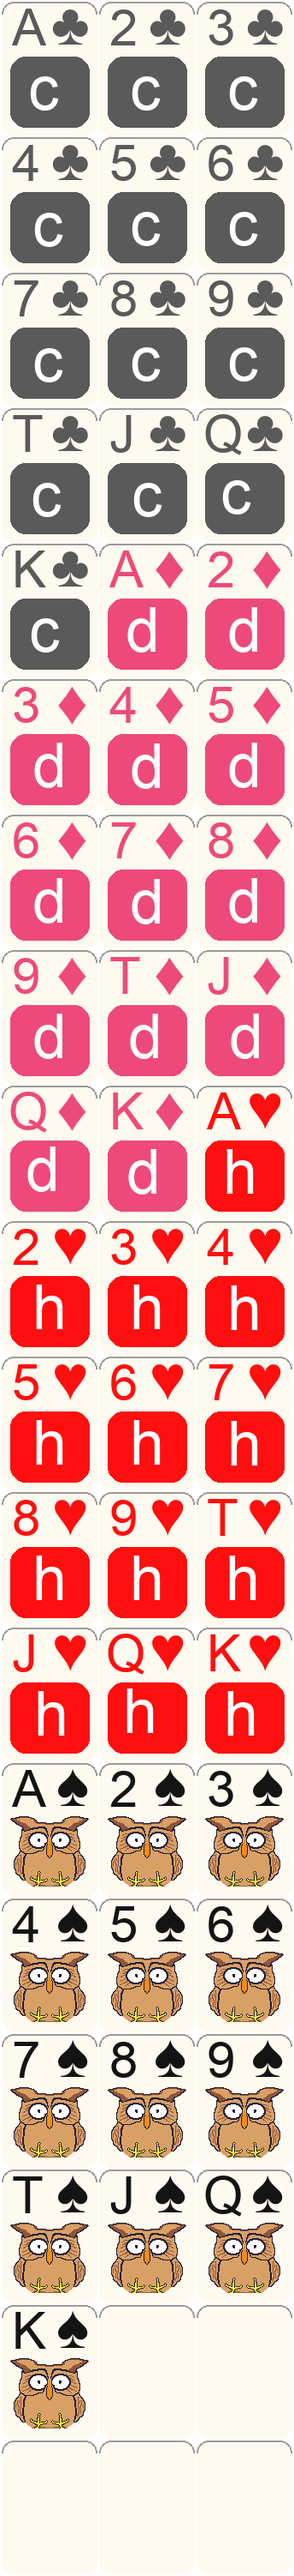
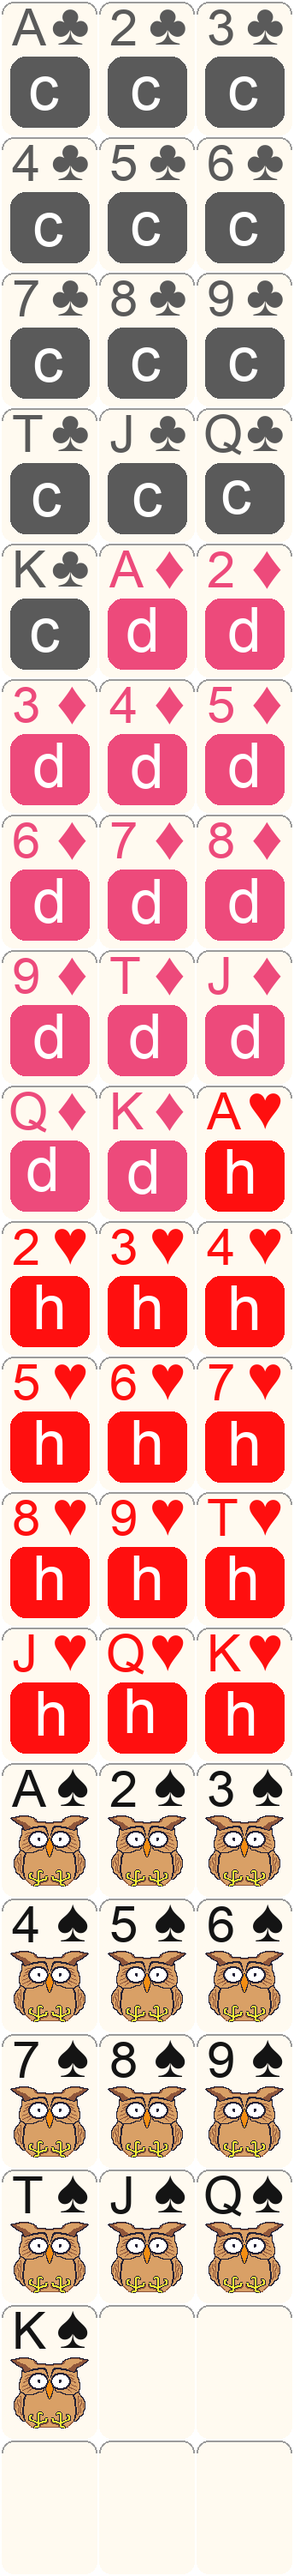
eagle graphic now on some cards in deck

diff --git a/src/scenes/preload-scene.ts b/src/scenes/preload-scene.ts
@@ -13,7 +13,7 @@ export class PreloadScene extends Phaser.Scene {
     this.load.image(ASSET_KEYS.TITLE, 'assets/images/title.png');
     this.load.image(ASSET_KEYS.CLICK_TO_START, 'assets/images/clickToStart.png');
 
-    this.load.spritesheet(ASSET_KEYS.CARDS, 'assets/images/cards_edge-0-top-1_scale-2_owl-1a.png', { 
+    this.load.spritesheet(ASSET_KEYS.CARDS, 'assets/images/cards_edge-0-top-1_scale-2.png', { 
       // 56x78, from 2x blanks
       frameWidth: CARD_WIDTH,
       frameHeight: CARD_HEIGHT,

diff --git a/dev/code/write_deck_resize.py b/dev/code/write_deck_resize.py
@@ -28,7 +28,7 @@ def generate_cards():
     # load blank cards deck image
     input_path = "dev/art/cards_blank_56x78_corner-7_edge-0-top-1_scale-2.png"
 
-    output_path = "public/assets/images/cards_edge-0-top-1_scale-2_owl-1a.png"
+    output_path = "public/assets/images/cards_edge-0-top-1_scale-2.png"
     
     try:
         img = Image.open(input_path)
@@ -84,13 +84,20 @@ def generate_cards():
                   owl_x = x - 96 // 2
                   owl_y = y - 84 // 2 + 12 * scale
                   img.paste(owl_img, (owl_x, owl_y), owl_img.split()[3])
-                  # img.paste(owl_img, (owl_x, owl_y), owl_img)
+                
+                elif suitLetter == 'h':
+                  eagle_img = Image.open("public/assets/images/eagle.png")
+                  if eagle_img.mode != 'RGBA':
+                    eagle_img = eagle_img.convert('RGBA')
+                  eagle_x = x - 96 // 2
+                  eagle_y = y - 84 // 2 + 12 * scale
+                  img.paste(eagle_img, (eagle_x, eagle_y), eagle_img.split()[3])
                 else:
                   draw.rounded_rectangle([rect_x1, graphic_y, rect_x2, rect_y2],
                                       radius=9 * scale, fill=colour, outline=colour, width=1)
 
                 # 2. white text super-imposed on colour rectangle
-                if suitLetter != 's':
+                if suitLetter == 'd' or suitLetter == 'c':
                   text_x = x - text_width // 2
                   text_y = y - text_height // 2 + 4 * scale
                   draw.text((text_x, text_y), suitLetter, fill=(255,255,255), font=phFont)
